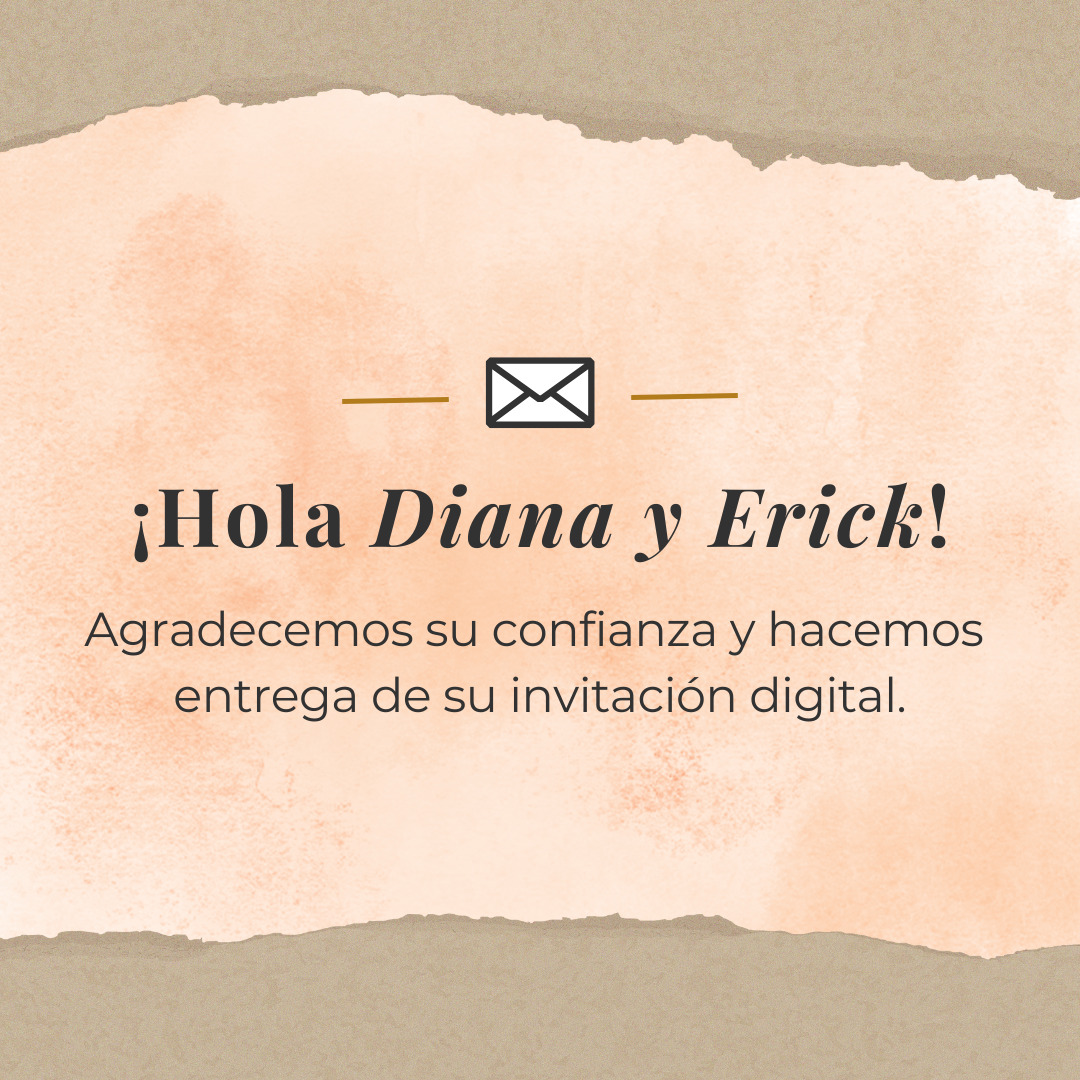
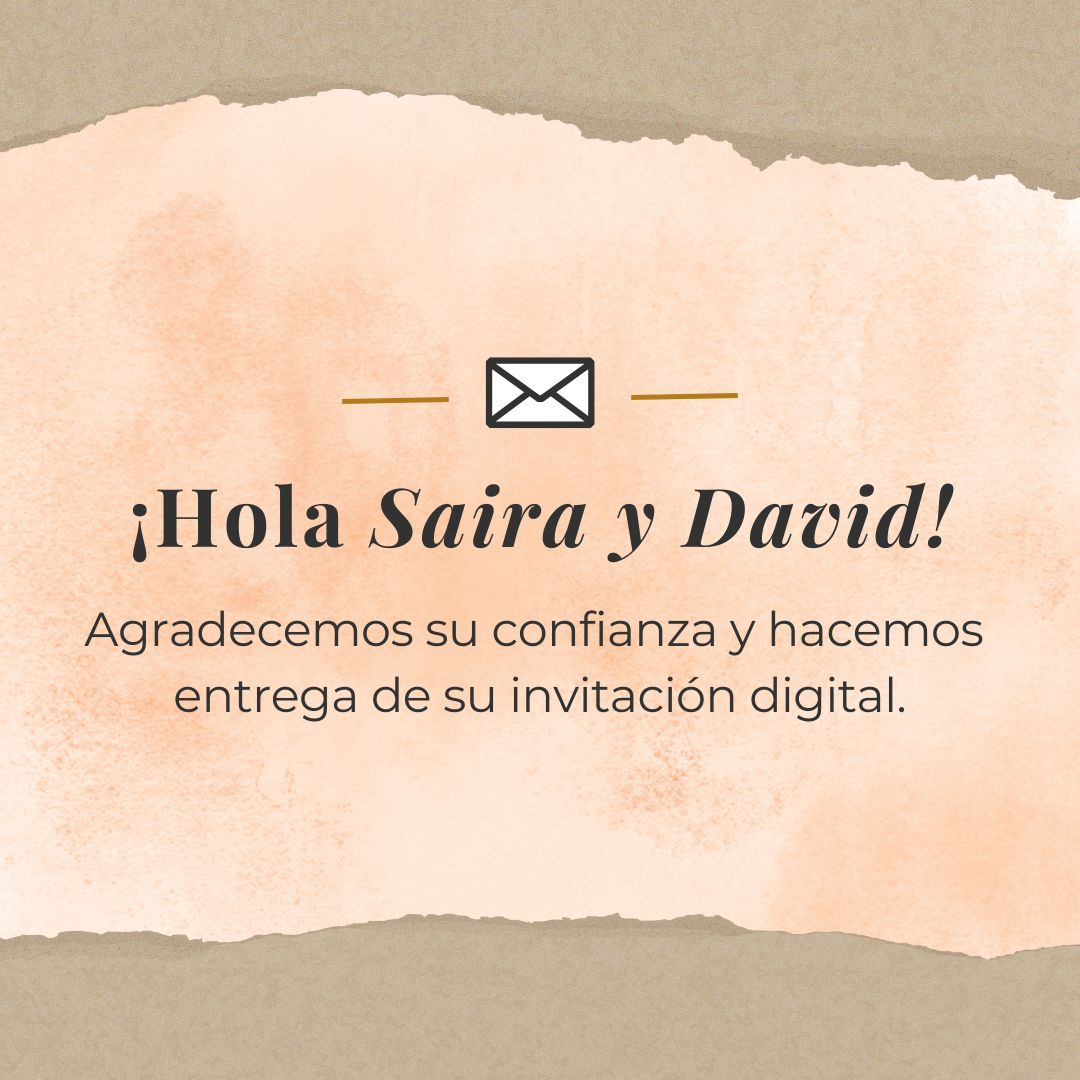
Add files via upload

Changed region(s): [[0.3361, 0.4278, 0.8861, 0.5194], [0.1833, 0.4583, 0.3056, 0.5194], [0.1222, 0.4583, 0.1528, 0.5194]]

diff --git a/index.html b/index.html
@@ -11,11 +11,11 @@
         <meta name="description" content="Da click en el enlace para ver tu invitación."/>
         <meta property="og:locale" content="es_ES"/>
         <meta property="og:type" content="website"/>
-        <meta property="og:title" content="¡Hola Diana y Erick!"/>
+        <meta property="og:title" content="¡Hola Saira y David!"/>
         <meta property="og:description" content="Da click en el enlace para ver tu invitación."/>
-        <meta property="og:url" content="https://labodadedianayerick.github.io/index.html"/>
+        <meta property="og:url" content="https://noscasamos.github.io/sairaydavid/index.html"/>
         <meta property="article:modified_time" content="2023-02-19T17:24:46+00:00"/>
-        <meta property="og:image" content="https://labodadedianayerick.github.io/img/portadaEnviar.jpg"/>
+        <meta property="og:image" content="https://noscasamos.github.io/sairaydavid/img/portadaEnviar.jpg"/>
         <meta property="og:image:width" content="1080"/>
         <meta property="og:image:height" content="1080"/>
         <meta property="og:image:type" content="image/jpeg"/>
@@ -26,49 +26,49 @@
       "@graph": [
           {
               "@type": "Organization",
-              "@id": "https://labodadedianayerick.github.io/index.html/#/schema/Organization/1",
-              "name": "¡Hola Diana y Erick!",
-              "url": "https://labodadedianayerick.github.io/index.html",
+              "@id": "https://noscasamos.github.io/sairaydavid/index.html/#/schema/Organization/1",
+              "name": "¡Hola Saira y David!",
+              "url": "https://noscasamos.github.io/sairaydavid/index.html",
               "sameAs": [
               ],
               "logo": {
                   "@type": "ImageObject",
-                  "@id": "https://labodadedianayerick.github.io/img/portadaEnviar.jpg",
-                  "url": "https://labodadedianayerick.github.io/img/portadaEnviar.jpg",
-                  "contentUrl": "https://labodadedianayerick.github.io/img/portadaEnviar.jpg",
+                  "@id": "https://noscasamos.github.io/sairaydavid/img/portadaEnviar.jpg",
+                  "url": "https://noscasamos.github.io/sairaydavid/img/portadaEnviar.jpg",
+                  "contentUrl": "https://noscasamos.github.io/sairaydavid/img/portadaEnviar.jpg",
                   "width": 1080,
                   "height": 1080,
                   "caption": "Example Image"
               },
               "image": {
-                  "@id": "https://labodadedianayerick.github.io/img/portadaEnviar.jpg"
+                  "@id": "https://noscasamos.github.io/sairaydavid/img/portadaEnviar.jpg"
               }
           },
           {
               "@type": "WebSite",
-              "@id": "https://labodadedianayerick.github.io/index.html/#/schema/WebSite/1",
-              "url": "https://labodadedianayerick.github.io/index.html",
-              "name": "¡Hola Diana y Erick!",
+              "@id": "https://noscasamos.github.io/sairaydavid/index.html/#/schema/WebSite/1",
+              "url": "https://noscasamos.github.io/sairaydavid/index.html",
+              "name": "¡Hola Saira y David!",
               "publisher": {
-                  "@id": "https://labodadedianayerick.github.io/index.html/#/schema/Organization/1"
+                  "@id": "https://noscasamos.github.io/sairaydavid/index.html/#/schema/Organization/1"
               },
               "potentialAction": {
                   "@type": "SearchAction",
-                  "target": "https://labodadedianayerick.github.io/index.html/?s={search_term_string}",
+                  "target": "https://noscasamos.github.io/sairaydavid/index.html/?s={search_term_string}",
                   "query-input": "required name=search_term_string"
               }
           },
           {
               "@type": "WebPage",
-              "@id": "https://labodadedianayerick.github.io/index.html",
-              "url": "https://labodadedianayerick.github.io/index.html",
+              "@id": "https://noscasamos.github.io/sairaydavid/index.html",
+              "url": "https://noscasamos.github.io/sairaydavid/index.html",
               "inLanguage": "es",
               "name": "Example Page",
               "isPartOf": {
-                  "@id": "https://labodadedianayerick.github.io/index.html/#/schema/WebSite/1"
+                  "@id": "https://noscasamos.github.io/sairaydavid/index.html/#/schema/WebSite/1"
               },
               "about": {
-                  "@id": "https://labodadedianayerick.github.io/index.html/#/schema/Organization/1"
+                  "@id": "https://noscasamos.github.io/sairaydavid/index.html/#/schema/Organization/1"
               },
               "datePublished": "2015-09-14T08:13:22+00:00",
               "dateModified": "2019-03-28T12:46:37+00:00",
@@ -78,8 +78,8 @@
   }
         </script>
 
-         <link rel="alternate" type="application/rss+xml" title=" &raquo; Feed" href="https://labodadedianayerick.github.io/index.html/feed/"/>
-        <link rel="alternate" type="application/rss+xml" title=" &raquo; Feed de los comentarios" href="https://labodadedianayerick.github.io/index.html/comments/feed/"/>
+         <link rel="alternate" type="application/rss+xml" title=" &raquo; Feed" href="https://noscasamos.github.io/sairaydavid/index.html/feed/"/>
+        <link rel="alternate" type="application/rss+xml" title=" &raquo; Feed de los comentarios" href="https://noscasamos.github.io/sairaydavid/index.html/comments/feed/"/>
         
     <link rel="stylesheet" href="https://stackpath.bootstrapcdn.com/bootstrap/4.2.1/css/bootstrap.min.css" integrity="sha384-GJzZqFGwb1QTTN6wy59ffF1BuGJpLSa9DkKMp0DgiMDm4iYMj70gZWKYbI706tWS" crossorigin="anonymous">
     <link rel="stylesheet" href="css/index.css">
@@ -100,7 +100,7 @@
 
 
 </script>
-    <title>¡Hola Diana y Erick!</title>
+    <title>¡Hola Saira y David!</title>
     <link rel="shortcut icon" href="img/CODIGO LOGOTIPO.png"/>
 </head>
 
@@ -117,7 +117,7 @@
         
    
              <p id="icono" style="font-size: 35px; color:#FCD4B7"><i class="far fa-envelope"></i></p>
-            <h4 class='cliente col-12 col-md-5 col-lg-12 text-center mb-0 mt-2'><b>¡Hola <i>Diana y <br>Erick </i>!</b></h4>
+            <h4 class='cliente col-12 col-md-5 col-lg-12 text-center mb-0 mt-2'><b>¡Hola <i>Saira y <br>David </i>!</b></h4>
           <h5 class='nombres1 mb-0 col-lg-12 text-center mt-4' ><b>Agradecemos su confianza y hacemos entrega de su invitación digital.</b></h5>  
 
      
@@ -133,7 +133,7 @@
 <h5 class='nombres1 mb-0 col-lg-12 text-center mt-4' ><b>¡Copia el link (URL) y pégalo en la red social de tu preferencia!</b></h5>  
 
 <div class="row justify-content-center" style="margin:0 auto;">
-    <input class="mt-3 col-6" type="text" value="https://labodadedianayerick.github.io/inicio.html" id="target1" readonly>
+    <input class="mt-3 col-6" type="text" value="https://noscasamos.github.io/sairaydavid/inicio.html" id="target1" readonly>
 <button id="boton" class="example2 col-4 col-md-3 mt-3" onclick="copiar()">Copiar</button>
 </div>
 

diff --git a/inicio.html b/inicio.html
@@ -293,7 +293,7 @@
           
         <div class=" row justify-content-center" style="margin: 0 auto;">   
             <h5 id="salonIglesia" class='dondeycuandotitulo col-12 col-lg-12 mt-3 ml-2 text-center text-dark' >CEREMONIA</h5>  
-            <p id="icono" style="font-size: 120px; color:#ABB495"><i class="fas fa-church"></i></p>  
+            <p id="icono" style="font-size: 120px; color:#ABB495"><i class="fas fa-feather-alt"></i></p>  
         
             <h6 class='lugar col-11 col-lg-12 mt-3 text-center' >SALÓN Y JARDÍN BOSSCAL</h6> 
             <div class="row justify-content-center" style="width:100%; margin:0 auto;"> 
@@ -410,7 +410,7 @@
 
     <p id="textodondeycuando2" class='textoasistencia col-12 col-lg-12 mb-4 mt-5 text-center' style="font-size: 15px; color:#354F52;  font-family: 'Playfair Display', serif; letter-spacing:1px"><b>¿Dudas sobre nuestro evento? Puedes pedir información a través de nuestro chat de WhatsApp.</b><p> 
     <div class=" logos1 row justify-content-center align-items-center mb-5" style="margin: 0 auto"> 
-        <a  href="https://wa.me//526183694620?text=¡Hola!%20Tengo%20una%20duda%20sobre%20el%20evento.%20&#128513;" class="btnWhats text-center align-items-center col-6" style=""><b><i class="fa fa-whatsapp "></b></i> WhatsApp</a> 
+        <a  href="https://wa.me//526751096450?text=¡Hola!%20Tengo%20una%20duda%20sobre%20el%20evento.%20&#128513;" class="btnWhats text-center align-items-center col-6" style=""><b><i class="fa fa-whatsapp "></b></i> WhatsApp</a> 
     </div>  <br>
      <h4 id="textodondeycuando2" class='dondeyCuando col-12 col-lg-12 text-center' style="color:#354F52;">¡NO FALTES!</h4> <br><br> 
 </div></div>
